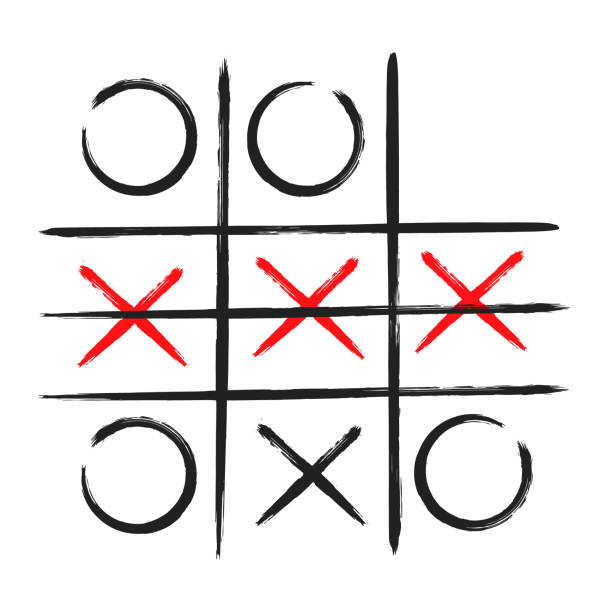
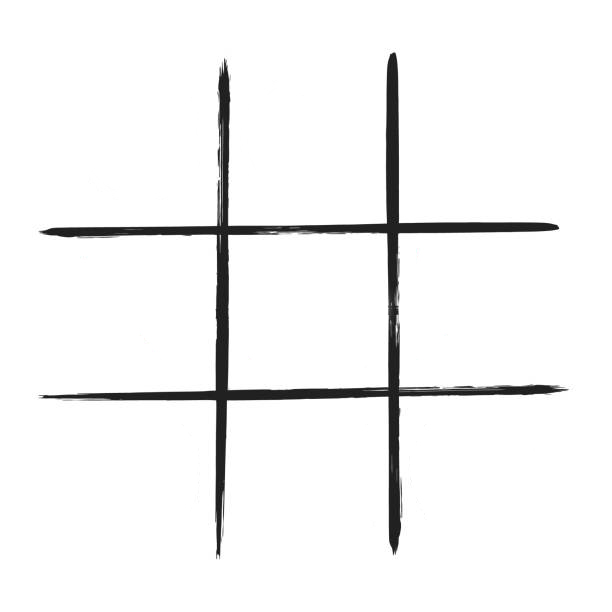
fix button

diff --git a/App.tsx b/App.tsx
@@ -1,55 +1,158 @@
 import React, {useState} from 'react';
-import { StatusBar } from 'expo-status-bar';
-import { StyleSheet, Text, View,Image,Button,TouchableOpacity } from 'react-native';
+
+import {StatusBar,ImageBackground, StyleSheet, Text, View,Image,Button,TouchableOpacity, Alert } from 'react-native';
 
 export default function App() {
-const [count,setCount]=useState(0);
-const marked= () => setCount(prevCount => prevCount + 1)
+  
+  const [count,setCount]=useState(0);
+  //button 1
+  const [imageSource, setImageSource] = useState(undefined);
+  const [buttonVisible, setButtonVisible] = useState(true);
+  //button 2
+  const [imageSource1, setImageSource1] = useState(undefined);
+  const [buttonVisible1, setButtonVisible1] = useState(true);
+  //button 3
+  const [imageSource2, setImageSource2] = useState(undefined);
+  const [buttonVisible2, setButtonVisible2] = useState(true);
+  //button 4
+  const [imageSource3, setImageSource3] = useState(undefined);
+  const [buttonVisible3, setButtonVisible3] = useState(true);
+  //button 5
+  const [imageSource4, setImageSource4] = useState(undefined);
+  const [buttonVisible4, setButtonVisible4] = useState(true);
+  //button 6
+  const [imageSource5, setImageSource5] = useState(undefined);
+  const [buttonVisible5, setButtonVisible5] = useState(true);
+  //button 7
+  const [imageSource6, setImageSource6] = useState(undefined);
+  const [buttonVisible6, setButtonVisible6] = useState(true);
+  //button 8
+  const [imageSource7, setImageSource7] = useState(undefined);
+  const [buttonVisible7, setButtonVisible7] = useState(true);
+  //button 9
+  const [imageSource8, setImageSource8] = useState(undefined);
+  const [buttonVisible8, setButtonVisible8] = useState(true);
+  
+const marked= (id: number) => {
+  if(id==0){
+    if(count == 0||count ==2||count ==4||count ==6||count ==8){
+      setImageSource(require('./assets/x.png'));
+      setButtonVisible(false);
+      setCount(prevCount => prevCount + 1)
+    }else if(count == 1||count ==3||count ==5||count ==7||count ==9){
+      setImageSource(require('./assets/O.png'));
+      setButtonVisible(false);
+      setCount(prevCount => prevCount + 1)
+    }else{
+      Alert.alert('Tie try again');
+      setCount(0);
+      setButtonVisible(true);
+  
+    }
+  }else if(id==1){
+    if(count == 0||count ==2||count ==4||count ==6||count ==8){
+      setImageSource(require('./assets/x.png'));
+      setButtonVisible(false);
+      setCount(prevCount => prevCount + 1)
+    }else if(count == 1||count ==3||count ==5||count ==7||count ==9){
+      setImageSource(require('./assets/O.png'));
+      setButtonVisible(false);
+      setCount(prevCount => prevCount + 1)
+    }else{
+      Alert.alert('Tie try again');
+      setCount(0);
+      setButtonVisible(true);
+  
+    }
+  }else {}
+}
+
 
 
   return (
     <View style={styles.container}>
-      <Image style={styles.image}source={require("./assets/backgroundX-O.jpg")} />
-      <Text>Open up App.tsx to start working on your app!11111</Text>
-      <StatusBar style="auto" />
+      <ImageBackground style={styles.image} resizeMode="cover" source={require("./assets/backgroundX-O.jpg")} >
+      <Text>Count: {count}</Text>
+
       <View style={styles.bord}>
-          <TouchableOpacity style={styles.button} onPress={marked}>
-           <Text>Press Here</Text>
-          </TouchableOpacity>
-          <TouchableOpacity style={styles.button} onPress={marked}>
-           <Text>Press Here</Text>
-          </TouchableOpacity>
-          <TouchableOpacity style={styles.button} onPress={marked}>
-           <Text>Press Here</Text>
-          </TouchableOpacity>
+      
+      {buttonVisible ? (//button 0
+        <TouchableOpacity style={styles.button} onPress={ ()=> marked(0)}>
+          <Text>Press Here</Text>
+          
+        </TouchableOpacity>
+      ) : (
+        <Image source={imageSource} style={styles.button} />
+      )}
+ 
+      {buttonVisible1 ? (//button 1
+        <TouchableOpacity style={styles.button} onPress={()=> marked(1)}>
+          <Text>Press Here</Text>
+        </TouchableOpacity>
+      ) : (
+        <Image source={imageSource1} style={styles.button} />
+      )}
 
-          <TouchableOpacity style={styles.button} onPress={marked}>
-           <Text>Press Here</Text>
-          </TouchableOpacity>
-          <TouchableOpacity style={styles.button} onPress={marked}>
-           <Text>Press Here</Text>
-          </TouchableOpacity>
-          <TouchableOpacity style={styles.button} onPress={marked}>
-           <Text>Press Here</Text>
-          </TouchableOpacity>
+      {buttonVisible2 ? (//button 2
+        <TouchableOpacity style={styles.button} onPress={()=> marked(2)}>
+          <Text>Press Here</Text>
+        </TouchableOpacity>
+      ) : (
+        <Image source={imageSource2} style={styles.button} />
+      )}
 
-          <TouchableOpacity style={styles.button} onPress={marked}>
-           <Text>Press Here</Text>
-          </TouchableOpacity>
-          <TouchableOpacity style={styles.button} onPress={marked}>
-           <Text>Press Here</Text>
-          </TouchableOpacity>
-          <TouchableOpacity style={styles.button} onPress={marked}>
-           <Text>Press Here</Text>
-          </TouchableOpacity>
+      {buttonVisible3 ? (//button 3
+        <TouchableOpacity style={styles.button} onPress={()=> marked(2)}>
+          <Text>Press Here</Text>
+        </TouchableOpacity>
+      ) : (
+        <Image source={imageSource3} style={styles.button} />
+      )}
+      {buttonVisible4 ? (//button 4
+        <TouchableOpacity style={styles.button} onPress={()=> marked(2)}>
+          <Text>Press Here</Text>
+        </TouchableOpacity>
+      ) : (
+        <Image source={imageSource4} style={styles.button} />
+      )}
+      {buttonVisible5 ? (//button 5
+        <TouchableOpacity style={styles.button} onPress={()=> marked(2)}>
+          <Text>Press Here</Text>
+        </TouchableOpacity>
+      ) : (
+        <Image source={imageSource5} style={styles.button} />
+      )}
+
+      {buttonVisible6 ? (//button 6
+        <TouchableOpacity style={styles.button} onPress={()=> marked(2)}>
+          <Text>Press Here</Text>
+        </TouchableOpacity>
+      ) : (
+        <Image source={imageSource6} style={styles.button} />
+      )}
+      {buttonVisible7 ? (//button 7
+        <TouchableOpacity style={styles.button} onPress={()=> marked(2)}>
+          <Text>Press Here</Text>
+        </TouchableOpacity>
+      ) : (
+        <Image source={imageSource7} style={styles.button} />
+      )}
+      {buttonVisible8 ? (//button 8
+        <TouchableOpacity style={styles.button} onPress={()=> marked(2)}>
+          <Text>Press Here</Text>
+        </TouchableOpacity>
+      ) : (
+        <Image source={imageSource8} style={styles.button} />
+      )}
 </View>
-
+    </ImageBackground>
     </View>
   );
 }
 
 const styles = StyleSheet.create({
   container: {
+    marginTop: StatusBar.currentHeight,
     flex: 1,
     backgroundColor: '#fff',
     alignItems: 'center',
@@ -58,11 +161,12 @@ const styles = StyleSheet.create({
   image:{
     width:400,
     height:400,
-    borderRadius: 0
+    flex: 1,
+    justifyContent: 'center',
   },
   bord: {
     flex: 1,
-    margin: 30,
+    margin: 20,
     flexDirection: 'row',
     flexWrap: 'wrap',
     justifyContent: 'space-around',
@@ -74,6 +178,6 @@ const styles = StyleSheet.create({
     margin: 8,
     alignItems: 'center',
     justifyContent: 'center',
-    backgroundColor: 'lightblue',
+    backgroundColor: 'transparent',
   },
 });
